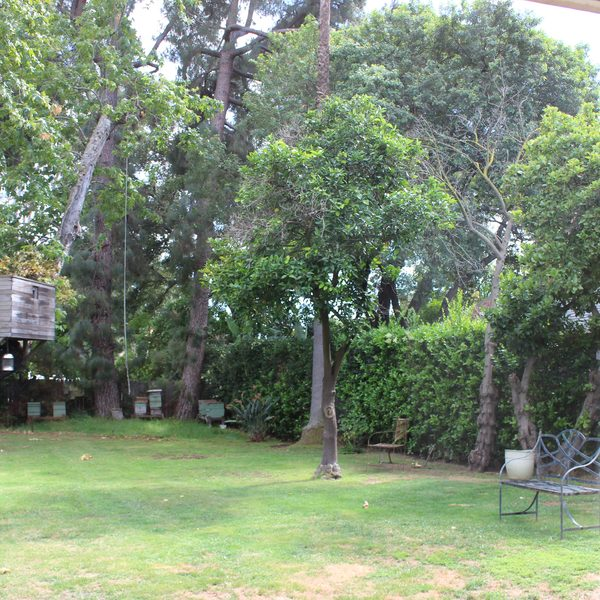
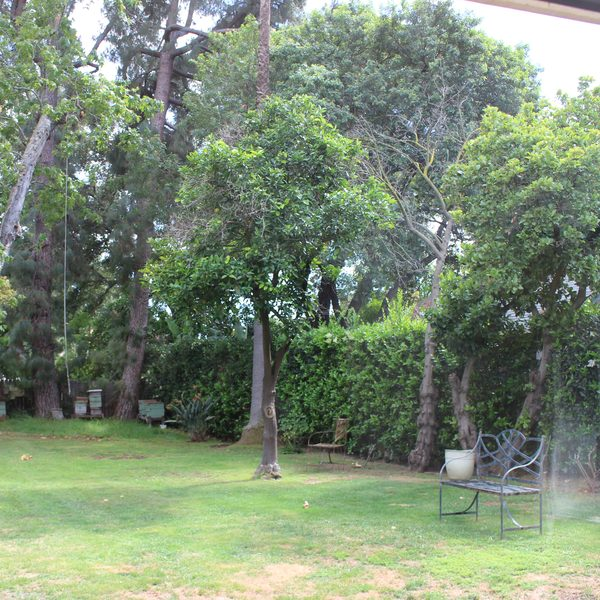
Remove radishes and garden-beds-walkway; shift the treehouse crop right
Gallery is now 13 photos. Both removals dropped from the gallery, the
make-photo-assets.py pipeline, and their generated files deleted.

garden-beds-walkway was also used in the home page gallery teaser, which
would have left a broken image there — the slot now uses child-pruning,
which additionally puts a child on the home page (only three photos in
the whole library have children in them).

make-photo-assets.py: `focus` now anchors the crop along whichever axis is
actually cropped — horizontal for landscape, vertical for portrait. 0.5 is
still a plain centre crop, so every other photo is unchanged. Treehouse
moved to 0.70.

That shift takes the treehouse out of frame, so its caption no longer
claims one — now "The backyard lawn, with the beehives along the hedge".

diff --git a/gallery.html b/gallery.html
@@ -76,9 +76,9 @@
            tools/make-photo-assets.py — add a photo there, don't hand-crop. -->
       <div class="gallery" data-reveal>
         <button class="gallery__item" data-lightbox-open
-                data-full="assets/img/gallery/backyard-treehouse.jpg" data-caption="The backyard, with the treehouse and the beehives beyond"
-                aria-label="View larger: The backyard, with the treehouse and the beehives beyond">
-          <img src="assets/img/gallery/backyard-treehouse-thumb.jpg" alt="The backyard, with the treehouse and the beehives beyond"
+                data-full="assets/img/gallery/backyard-treehouse.jpg" data-caption="The backyard lawn, with the beehives along the hedge"
+                aria-label="View larger: The backyard lawn, with the beehives along the hedge">
+          <img src="assets/img/gallery/backyard-treehouse-thumb.jpg" alt="The backyard lawn, with the beehives along the hedge"
                width="600" height="600" decoding="async">
         </button>
         <button class="gallery__item" data-lightbox-open
@@ -94,16 +94,10 @@
                width="600" height="600" decoding="async">
         </button>
         <button class="gallery__item" data-lightbox-open
-                data-full="assets/img/gallery/garden-beds-walkway.jpg" data-caption="The garden beds running the length of the walkway"
-                aria-label="View larger: The garden beds running the length of the walkway">
-          <img src="assets/img/gallery/garden-beds-walkway-thumb.jpg" alt="The garden beds running the length of the walkway"
-               width="600" height="600" decoding="async">
-        </button>
-        <button class="gallery__item" data-lightbox-open
                 data-full="assets/img/gallery/fresh-bread.jpg" data-caption="Bread, straight out of the oven"
                 aria-label="View larger: Bread, straight out of the oven">
           <img src="assets/img/gallery/fresh-bread-thumb.jpg" alt="Bread, straight out of the oven"
-               width="600" height="600" loading="lazy" decoding="async">
+               width="600" height="600" decoding="async">
         </button>
         <button class="gallery__item" data-lightbox-open
                 data-full="assets/img/gallery/painted-picket-fence.jpg" data-caption="A bed behind the picket fence the children painted"
@@ -115,12 +109,6 @@
                 data-full="assets/img/gallery/cat-painting.jpg" data-caption="A cat, painted by one of the older children"
                 aria-label="View larger: A cat, painted by one of the older children">
           <img src="assets/img/gallery/cat-painting-thumb.jpg" alt="A cat, painted by one of the older children"
-               width="600" height="600" loading="lazy" decoding="async">
-        </button>
-        <button class="gallery__item" data-lightbox-open
-                data-full="assets/img/gallery/radishes.jpg" data-caption="Radishes, pulled and sliced"
-                aria-label="View larger: Radishes, pulled and sliced">
-          <img src="assets/img/gallery/radishes-thumb.jpg" alt="Radishes, pulled and sliced"
                width="600" height="600" loading="lazy" decoding="async">
         </button>
         <button class="gallery__item" data-lightbox-open

diff --git a/index.html b/index.html
@@ -286,10 +286,10 @@
         <p>Photos say more than we can. Then come stand in it.</p>
       </div>
       <div class="grid grid--4" data-reveal>
-        <img class="photo" src="assets/img/gallery/garden-beds-walkway-thumb.jpg" alt="The garden beds running the length of the walkway" width="600" height="600" loading="lazy" decoding="async">
+        <img class="photo" src="assets/img/gallery/child-pruning-thumb.jpg" alt="A child pruning in the garden with real tools" width="600" height="600" loading="lazy" decoding="async">
         <img class="photo" src="assets/img/gallery/watercolor-hearts-thumb.jpg" alt="Watercolour hearts from the art table" width="600" height="600" loading="lazy" decoding="async">
         <img class="photo" src="assets/img/gallery/fresh-bread-thumb.jpg" alt="Bread, straight out of the oven" width="600" height="600" loading="lazy" decoding="async">
-        <img class="photo" src="assets/img/gallery/backyard-treehouse-thumb.jpg" alt="The backyard, with the treehouse and the beehives beyond" width="600" height="600" loading="lazy" decoding="async">
+        <img class="photo" src="assets/img/gallery/backyard-treehouse-thumb.jpg" alt="The backyard lawn, with the beehives along the hedge" width="600" height="600" loading="lazy" decoding="async">
       </div>
       <p style="text-align:center;margin-top:2rem" data-reveal>
         <a class="btn btn--outline" href="gallery.html">See the full gallery</a>

diff --git a/tools/make-photo-assets.py b/tools/make-photo-assets.py
@@ -19,14 +19,14 @@ OUT.mkdir(exist_ok=True)
 
 #        source filename                                  slug                 focus
 PHOTOS = [
-    ("011 AP Backyard South with Bee Hives.JPG",          "backyard-treehouse",   0.50),
-    ("008 AP Garden Beds Long View.jpeg",                  "garden-beds-walkway",  0.50),
+    # Landscape: focus shifts the crop right, off the treehouse and onto the
+    # lawn, hedge and beehives.
+    ("011 AP Backyard South with Bee Hives.JPG",          "backyard-treehouse",   0.70),
     ("016 AP School Bed with Painted Picket Fence.jpeg",   "painted-picket-fence", 0.50),
     ("040 AP Child Pruning.png",                           "child-pruning",        0.35),
     ("007 AP Watercolor Hearts.png",                       "watercolor-hearts",    0.50),
     ("022 AP Older Student Cat Art.png",                   "cat-painting",         0.40),
     ("042 AP Fall Garden Baskets.png",                     "fall-baskets",         0.50),
-    ("027 AP Radishes.png",                                "radishes",             0.45),
     ("023 AP Garden Basket w Seeds.jpeg",                  "garden-basket",        0.50),
     ("031 AP Fresh Bread.png",                             "fresh-bread",          0.50),
     ("046 AP Carrots and Hummus.png",                      "carrots-hummus",       0.50),
@@ -40,11 +40,18 @@ THUMB, LARGE = 600, 1400
 
 
 def square(im, focus):
-    """Centre-weighted square crop, anchored vertically by `focus`."""
+    """Square crop anchored along whichever axis actually gets cropped.
+
+    focus 0 = left / top edge, 0.5 = centred, 1 = right / bottom edge.
+    A landscape photo is cropped horizontally, a portrait one vertically, so
+    one knob serves both. 0.5 reproduces a plain centre crop.
+    """
     w, h = im.size
     s = min(w, h)
-    left = (w - s) // 2
-    top = int((h - s) * focus)
+    if w >= h:
+        left, top = int((w - s) * focus), 0
+    else:
+        left, top = 0, int((h - s) * focus)
     return im.crop((left, top, left + s, top + s))
 
 